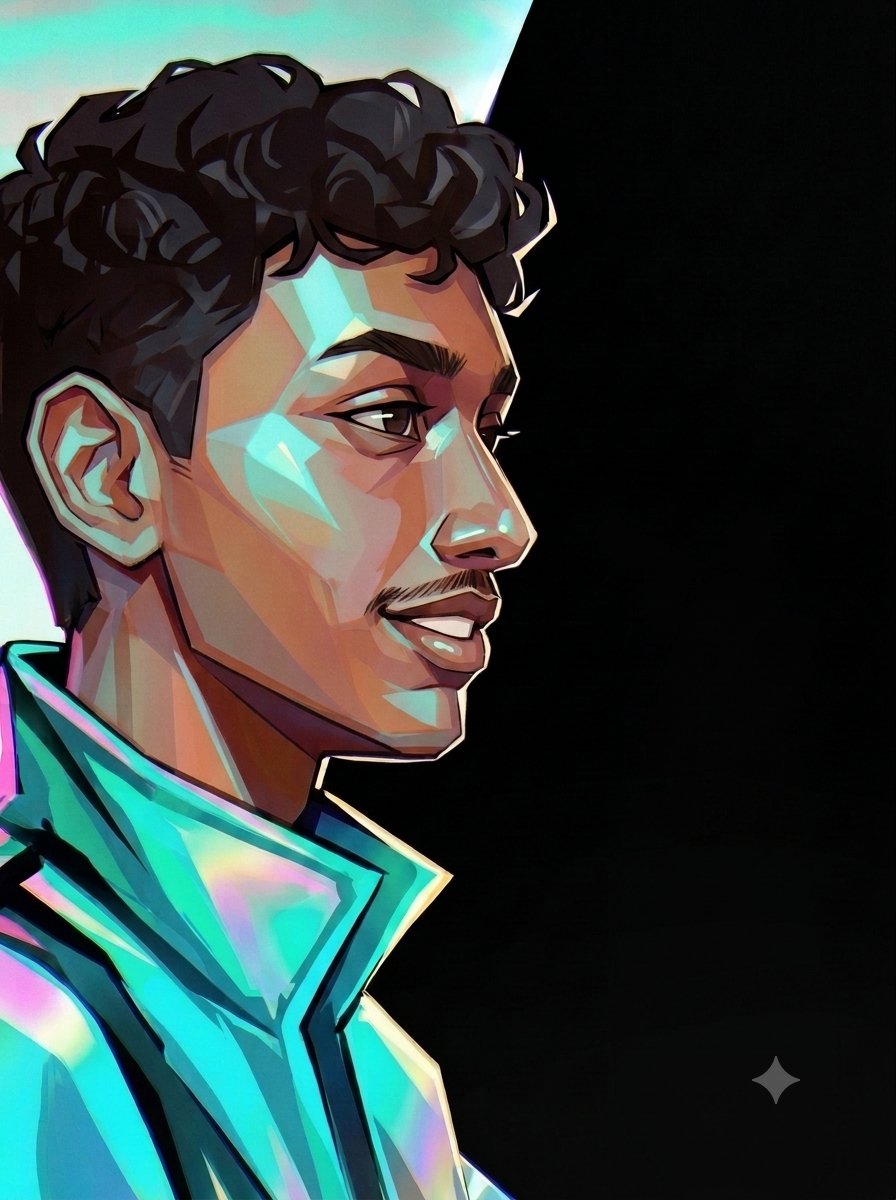
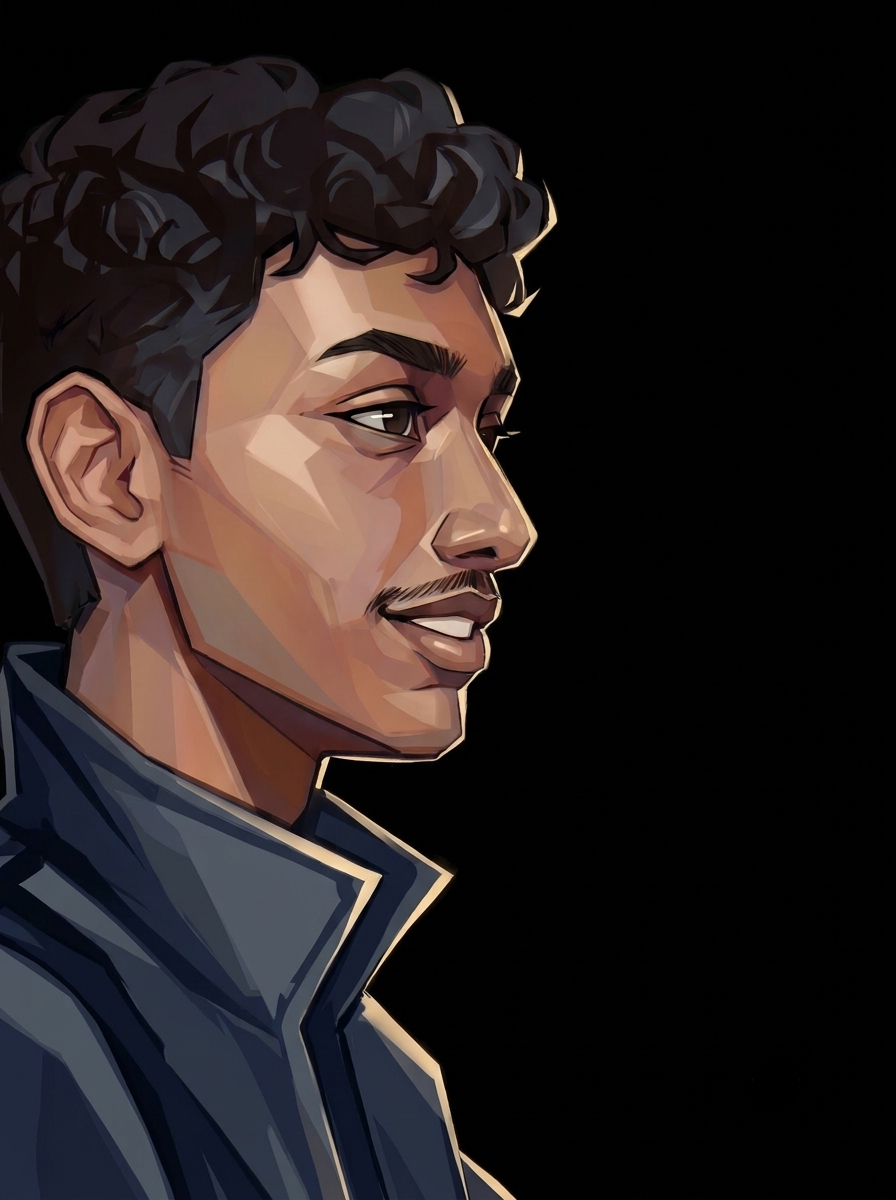
hero section

diff --git a/src/components/GiantTitle.jsx b/src/components/GiantTitle.jsx
@@ -30,6 +30,9 @@ export function GiantTitle({
   subtitle,
   shading = 'linear',
   stretch = 1.4,
+  stretchY,
+  stretchX = 1,
+  shiftX = '',
   tracking = 'tracking-[-0.055em]',
   fontSize = 'text-[clamp(4.5rem,min(18vw,30vh),24rem)]',
   heightMode = 'topHalf',
@@ -38,6 +41,9 @@ export function GiantTitle({
   className = '',
   textClassName = '',
 }) {
+  const effectiveStretchY = stretchY ?? stretch
+  const effectiveStretchX = stretchX ?? 1
+
   // Linear gradient: luminous crimson highlight at top crest, rich blood-red body, fading darker to deep shadowy red at bottom
   // Radial gradient: luminous top/center highlight popping out, descending into deep moody crimson base
   const textGradientStyle =
@@ -64,13 +70,13 @@ export function GiantTitle({
 
   return (
     <div
-      className={`relative w-full bg-[#0A0A0A] flex flex-col items-center justify-center overflow-hidden px-4 sm:px-6 md:px-12 select-none ${heightClasses} ${className}`}
+      className={`relative w-full bg-transparent flex flex-col items-center justify-center overflow-hidden px-4 sm:px-6 md:px-12 select-none ${heightClasses} ${className}`}
     >
       {/* Pitch-black backdrop ambient glow layer */}
       {ambientGlow && (
         <div
           aria-hidden="true"
-          className="pointer-events-none absolute inset-0 flex items-center justify-center -z-10 overflow-hidden"
+          className={`pointer-events-none absolute inset-0 flex items-center justify-center -z-10 overflow-hidden ${shiftX}`}
         >
           {/* Broad subtle ambient atmosphere filling the top half */}
           <div className="w-[90%] max-w-7xl h-[70%] bg-[#B91C1C]/14 rounded-full blur-[100px] md:blur-[140px]" />
@@ -82,7 +88,7 @@ export function GiantTitle({
       )}
 
       {/* Main Content Layout */}
-      <div className="relative z-10 w-full flex flex-col items-center justify-center text-center overflow-visible">
+      <div className={`relative z-10 w-full flex flex-col items-center justify-center text-center overflow-visible transition-transform duration-300 ${shiftX}`}>
         {/* Giant Stretched Display Name */}
         <Component
           className={`font-['Anton',Impact,'League_Gothic','Oswald',sans-serif] font-black uppercase whitespace-nowrap leading-[0.76] ${tracking} ${fontSize} drop-shadow-[0_0_35px_rgba(185,28,28,0.3)] filter overflow-visible ${textClassName}`}
@@ -91,7 +97,7 @@ export function GiantTitle({
             className="inline-block transform origin-center transition-transform duration-300"
             style={{
               ...textGradientStyle,
-              transform: `scaleY(${stretch})`,
+              transform: `scale(${effectiveStretchX}, ${effectiveStretchY})`,
             }}
           >
             {name}

diff --git a/src/components/Hero.jsx b/src/components/Hero.jsx
@@ -3,21 +3,36 @@ import GiantTitle from './GiantTitle'
 
 export default function Hero() {
   return (
-    <section className="home-hero relative w-full min-h-screen bg-[#0A0A0A] overflow-hidden flex flex-col justify-between">
-      {/* Top half: Giant display title stretched tall and sideways */}
-      <div className="w-full pt-6 sm:pt-10 flex-1 flex items-center justify-center">
+    <section className="home-hero relative w-full min-h-screen bg-black overflow-hidden flex flex-col justify-between">
+      {/* Left side: me.png portrait */}
+      <div
+        className="pointer-events-none absolute left-0 top-0 bottom-0 z-0 h-full w-auto flex items-end select-none"
+        aria-hidden="true"
+      >
+        <img
+          src="/images/me.png"
+          alt="Devang"
+          className="h-full w-auto max-w-[85vw] sm:max-w-[65vw] md:max-w-[50vw] lg:max-w-[45vw] object-cover sm:object-contain object-left-top sm:object-left-bottom drop-shadow-[0_20px_50px_rgba(0,0,0,0.85)]"
+          loading="eager"
+          decoding="async"
+        />
+      </div>
+
+      {/* Top half: Giant display title stretched tall and sideways, shifted slightly to the right */}
+      <div className="relative z-10 w-full pt-6 sm:pt-10 flex-1 flex items-center justify-center">
         <GiantTitle
           name="DEVANG"
           heightMode="topHalf"
           stretchY={1.42}
           stretchX={1.35}
+          shiftX="translate-x-6 sm:translate-x-12 md:translate-x-20 lg:translate-x-28 xl:translate-x-32"
         />
       </div>
 
       {/* Bottom Section: Manifesto at the bottom-left */}
       <div className="relative z-10 w-full px-6 sm:px-12 md:px-16 pb-10 sm:pb-14 pt-4 flex flex-col sm:flex-row items-start sm:items-end justify-between gap-6">
         {/* Bottom Left: Headline & Manifesto */}
-        <div className="max-w-xl flex items-start gap-4 sm:gap-5">
+        <div className="max-w-xl flex items-start gap-4 sm:gap-5 backdrop-blur-[2px] bg-black/40 sm:bg-black/30 p-3.5 sm:p-4 rounded-xl border border-white/5 sm:border-transparent">
           {/* Subtle crimson hairline accent bar */}
           <div
             aria-hidden="true"

diff --git a/src/styles/devang.css b/src/styles/devang.css
@@ -56,7 +56,7 @@ body {
 
 /* 1. Hero Section */
 .home-hero {
-  background: #0A0A0A;
+  background: #000000;
   width: 100%;
   position: relative;
   overflow: hidden;

diff --git a/README.md b/README.md
@@ -1,52 +1,81 @@
-# React + Tailwind CSS + React Bits
+# DEVANG.C Portfolio
 
-A minimal, high-performance starter configured with **Vite**, **Tailwind CSS v4**, and **React Bits** animated backgrounds.
+The personal portfolio of Devang C — a product designer and developer building thoughtful digital experiences, experiments, and interfaces.
 
----
+Built with React and Vite, the site uses a dark, editorial visual system with responsive layouts, animated navigation, smooth scrolling, interactive work showcases, and case-study modals.
 
-## 🚀 Getting Started
+## Getting Started
 
-### 1. Start the Development Server
+Install dependencies:
+
+```bash
+npm install
+```
+
+Start the development server:
+
 ```bash
 npm run dev
 ```
 
-### 2. Build for Production
+Create a production build:
+
 ```bash
 npm run build
 ```
 
-### 3. Lint Code
+Preview the production build locally:
+
+```bash
+npm run preview
+```
+
+Run the linter:
+
 ```bash
 npm run lint
 ```
 
----
+## Current Features
 
-## 📁 Project Structure
+- Full-screen hero with the DEVANG display title and manifesto
+- Responsive sticky navigation with an animated slide-out menu
+- Smooth scrolling powered by Lenis
+- Adaptive gyroscope cursor and surface-aware navigation tone
+- About, selected work, worked-at, and footer sections
+- Horizontal selected-work gallery with desktop wheel-to-horizontal scrolling
+- Interactive work gallery and case-study modals
+- Sound, menu, and surface-tone state managed through React context
+- Mobile landscape notice and responsive layouts
+- Dark visual system with custom typography, grid lines, and motion effects
 
-```
+The latest update removes the React Bits preloader so the portfolio loads directly into the main experience.
+
+## Project Structure
+
+```text
 Portfolio/
-├── src/
-│   ├── components/
-│   │   └── Backgrounds/
-│   │       ├── Aurora.jsx        # Ethereal swirling gradient mesh (WebGL / OGL)
-│   │       └── GhostFibers.jsx   # Flowing fiber optic waves (WebGL / OGL)
-│   ├── App.jsx                   # Full-screen background view with switcher
-│   ├── index.css                 # Tailwind CSS v4 styling & dark theme defaults
-│   └── main.jsx                  # React application root
 ├── public/
-│   └── favicon.svg               # Site icon
-├── jsconfig.json                 # Path aliases (@/* -> ./src/*)
-├── vite.config.js                # Vite config with @ alias & Tailwind v4
-└── package.json
+│   └── images/                 # Portfolio and work imagery
+├── src/
+│   ├── components/             # Page sections, navigation, modals, and UI
+│   ├── context/                # Sound, menu, and surface-tone providers
+│   ├── styles/                 # Section, typography, navigation, and footer styles
+│   ├── App.jsx                 # Application layout and shared interactions
+│   ├── index.css               # Tailwind CSS entry point
+│   └── main.jsx                # React application entry point
+├── index.html                  # Document metadata and font loading
+├── vite.config.js              # Vite configuration
+└── package.json                # Scripts and dependencies
 ```
 
----
+## Tech Stack
 
-## 🛠 Installed Dependencies & Configuration
-
-- **Tailwind CSS v4** (`@tailwindcss/vite` + `tailwindcss`)
-- **WebGL Rendering** (`ogl`, `three`)
-- **Animation Engines** (`framer-motion`, `gsap`)
-- **Path Alias**: `@/` maps directly to `src/` (configured in [vite.config.js](file:///home/kali/Projects/Portfolio/vite.config.js) and [jsconfig.json](file:///home/kali/Projects/Portfolio/jsconfig.json))
+- React 19
+- Vite
+- Tailwind CSS 4
+- GSAP
+- Framer Motion
+- Lenis
+- Lucide React
+- Three.js and OGL
